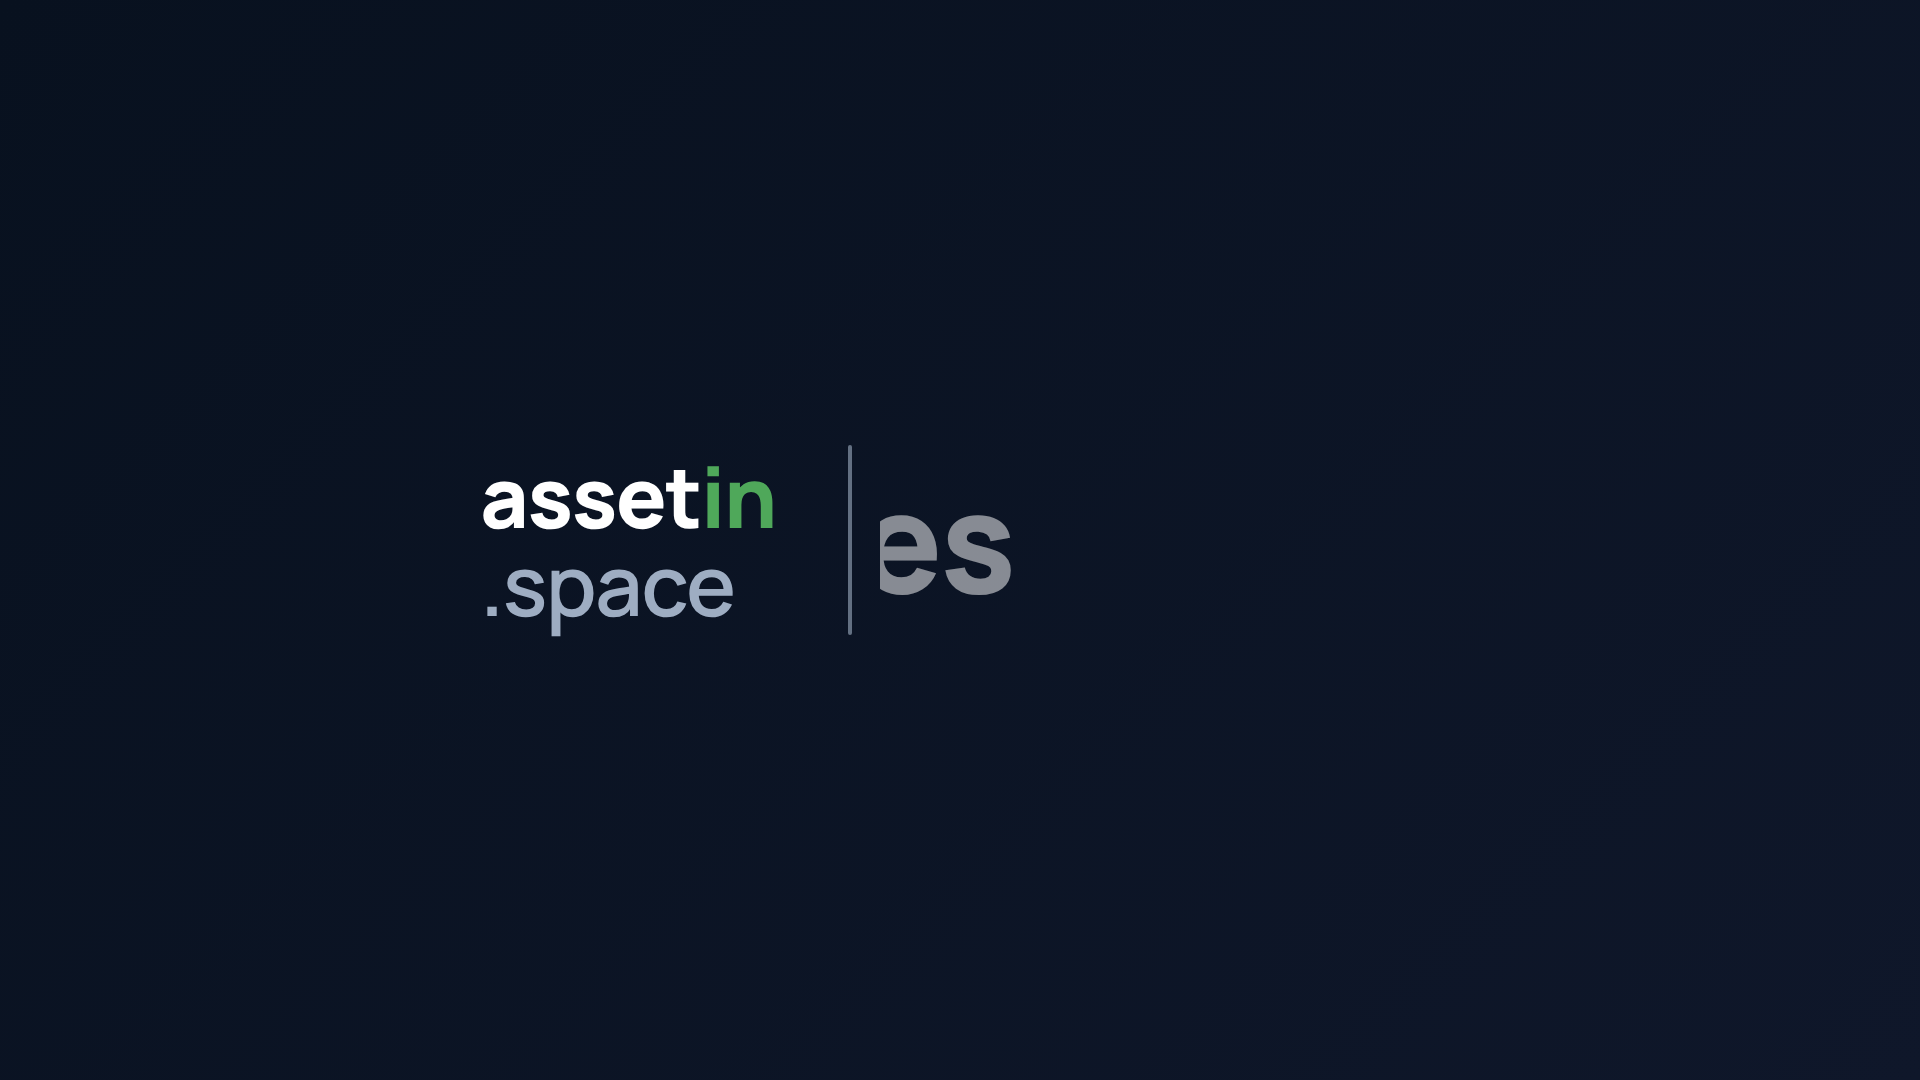
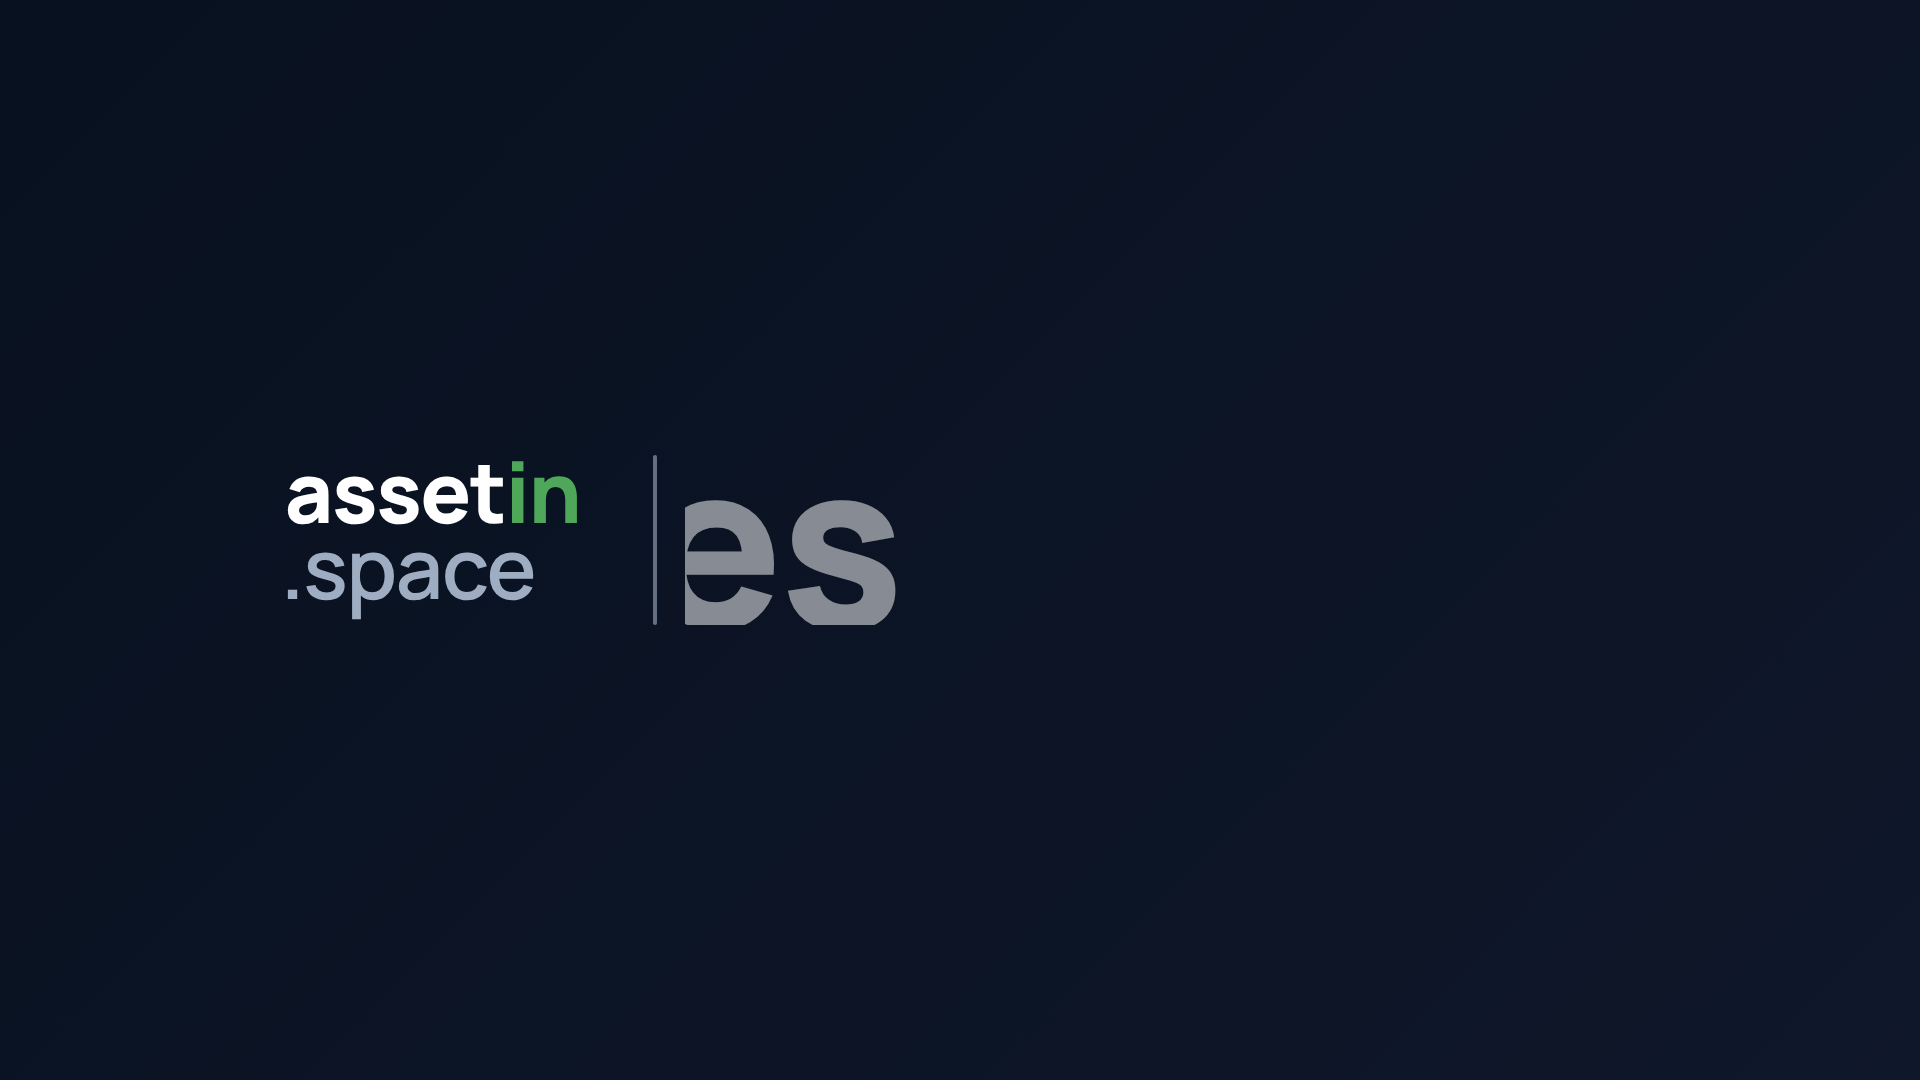
C1 Intro: lockup zarovnaný podľa nameraných glyfov (.space pod assetin, Archives 230 px, stred na jednej osi)
Claude-Session: https://claude.ai/code/session_0174g5XfE49UzAEjnWwaQFuK

Changed region(s): [[0.125, 0.4278, 0.5312, 0.5806]]

diff --git a/video/src/components/Brand.tsx b/video/src/components/Brand.tsx
@@ -12,18 +12,20 @@ export const LOCKUP = {
   stackW: 340, // sirka "assetin" pri 84 px
   gap: 28,
   sepW: 4,
-  sepH: 190,
-  modW: 560, // sirka "Archives" pri 140 px
+  sepH: 170,
+  modW: 951, // sirka "Archives" pri 230 px (namerane, aby bol lockup na strede)
+  modSize: 230,
+  stackSize: 84,
 };
 export const LOCKUP_W = LOCKUP.stackW + LOCKUP.gap + LOCKUP.sepW + LOCKUP.gap + LOCKUP.modW;
 
 export const BrandStack: React.FC<{ domain?: number; style?: React.CSSProperties }> = ({ domain = 1, style }) => (
   <div style={{ display: 'flex', flexDirection: 'column', alignItems: 'flex-start', width: LOCKUP.stackW, ...style }}>
-    <div style={{ fontFamily: FONT.display, fontWeight: 800, fontSize: 84, lineHeight: 1, color: '#fff', letterSpacing: '-0.02em', whiteSpace: 'nowrap' }}>
+    <div style={{ fontFamily: FONT.display, fontWeight: 800, fontSize: LOCKUP.stackSize, lineHeight: 0.9, color: '#fff', letterSpacing: '-0.02em', whiteSpace: 'nowrap' }}>
       asset<span style={{ color: BRAND[400] }}>in</span>
     </div>
     {/* .space: rovnaky typ aj velkost pisma ako assetin, len tenkie a sive */}
-    <div style={{ fontFamily: FONT.display, fontWeight: 500, fontSize: 84, lineHeight: 1, color: NAVY[300], letterSpacing: '-0.02em', marginTop: 4, whiteSpace: 'nowrap', opacity: Math.min(1, domain * 1.5), transform: `translateY(${(1 - domain) * -18}px)` }}>
+    <div style={{ fontFamily: FONT.display, fontWeight: 500, fontSize: LOCKUP.stackSize, lineHeight: 0.9, color: NAVY[300], letterSpacing: '-0.02em', marginTop: 0, marginLeft: -4, whiteSpace: 'nowrap', opacity: Math.min(1, domain * 1.5), transform: `translateY(${(1 - domain) * -18}px)` }}>
       .space
     </div>
   </div>
@@ -36,5 +38,5 @@ export const BrandSep: React.FC<{ t?: number }> = ({ t = 1 }) => (
 );
 
 export const BrandMod: React.FC<{ text?: string; style?: React.CSSProperties }> = ({ text = 'Archives', style }) => (
-  <div style={{ fontFamily: FONT.display, fontWeight: 800, fontSize: 140, lineHeight: 1, color: '#fff', letterSpacing: '-0.02em', whiteSpace: 'nowrap', ...style }}>{text}</div>
+  <div style={{ fontFamily: FONT.display, fontWeight: 800, fontSize: LOCKUP.modSize, lineHeight: 1, color: '#fff', letterSpacing: '-0.02em', whiteSpace: 'nowrap', ...style }}>{text}</div>
 );

diff --git a/video/src/scenes/C1_Intro.tsx b/video/src/scenes/C1_Intro.tsx
@@ -33,13 +33,16 @@ export const C1_Intro: React.FC = () => {
   const sepLeft = stackLeft + LOCKUP.stackW + LOCKUP.gap;
   const modLeft = sepLeft + LOCKUP.sepW + LOCKUP.gap;
   const top = 540 - LOCKUP.sepH / 2;
+  // korekcie podla nameranych glyfov (stred glyfov na y = 540)
+  const STACK_DY = -2;
+  const MOD_DY = -30;
   const scale = 1 + zoom * 0.35;
 
   return (
     <Scene mode="dark">
       <div style={{ position: 'absolute', inset: 0, transform: `scale(${scale})`, transformOrigin: '50% 50%', opacity: 1 - zoom * 0.9, filter: `blur(${zoom * 6}px)` }}>
         {/* stohovany logotyp */}
-        <div style={{ position: 'absolute', left: stackLeft, top: top + (LOCKUP.sepH - 172) / 2, opacity: stackIn, transform: `translateY(${(1 - stackIn) * 24}px)` }}>
+        <div style={{ position: 'absolute', left: stackLeft, top: top + STACK_DY, opacity: stackIn, transform: `translateY(${(1 - stackIn) * 24}px)` }}>
           <BrandStack domain={domain} />
         </div>
         {/* oddelovac */}
@@ -48,7 +51,7 @@ export const C1_Intro: React.FC = () => {
         </div>
         {/* modul Archives: vychadza spoza oddelovaca doprava (clip) */}
         <div style={{ position: 'absolute', left: modLeft, top, width: LOCKUP.modW + 40, height: LOCKUP.sepH, overflow: 'hidden' }}>
-          <BrandMod style={{ position: 'absolute', left: 0, top: (LOCKUP.sepH - 140) / 2, transform: `translateX(${(mod - 1) * (LOCKUP.modW + 40)}px)`, opacity: Math.min(1, mod * 2) }} />
+          <BrandMod style={{ position: 'absolute', left: 0, top: MOD_DY, transform: `translateX(${(mod - 1) * (LOCKUP.modW + 40)}px)`, opacity: Math.min(1, mod * 2) }} />
         </div>
       </div>
       {/* prechod do navy na konci (prvy frame C2 je navy) */}

diff --git a/video/STORYBOARD.md b/video/STORYBOARD.md
@@ -1,4 +1,4 @@
-# Storyboard – Assetin Archives (kolo 12)
+# Storyboard – Assetin Archives (kolo 13)
 
 Stav: ☐ still na schválenie · ☑ still schválený · ▶ animácia hotová · 🎞 finálne MP4
 
@@ -45,7 +45,7 @@ S04-Pokusy (Excel a skener), S10-Nasadenie (U nás / U vás) vo Folder „Option
 - kolo 1: „vyzerá ako prezentácia, priveľa textu, nie je miesto na footage“ → kolo 2.
 - kolo 2: „mierka ikon nesedí, chýba kancelária, texty sa prekrývajú s ikonami, simulácia UI je zbytočná (príde footage), zelené QR, presahy medzi scénami“ → kolo 3 (tento stav).
 - kolo 3 + oprava QR/kancelárie: schválené → Fáza 2 (finálne MP4).
-- kolo 4 až 12 (pripomienky z review stránky, viď FEEDBACK.md): zapracované; nové MP4 na review stránke.
+- kolo 4 až 13 (pripomienky z review stránky, viď FEEDBACK.md): zapracované; nové MP4 na review stránke.
 
 ## Review stránka
 

diff --git a/video/FEEDBACK.md b/video/FEEDBACK.md
@@ -79,3 +79,9 @@
 | Klip | Pripomienka (skrátene) | Riešenie |
 |---|---|---|
 | C1 Intro | `.space` veľkostne nedrží s `assetin`; rovnaký typ aj veľkosť písma, zarovnané na jednu os. | `.space` je Manrope 84 px (rovnako ako `assetin`), váha 500, sivé; stohovaný logotyp, oddeľovač (190 px) aj `Archives` sú vertikálne centrované na jednej osi. |
+
+## Kolo 13 (21. 9. 2026)
+
+| Klip | Pripomienka (skrátene) | Riešenie |
+|---|---|---|
+| C1 Intro | `.space` pôsobí, že „uteká“ – nie je vycentrované/správne uložené. | Zarovnanie podľa nameraných glyfov (pngjs): stoh `assetin`/`.space` tesnejší (line-height 0,9), `.space` ľavou hranou presne pod `a`; stred glyfov stohu, oddeľovača aj `Archives` na y = 540 ± 2 px; `Archives` zväčšené na 230 px (verzálka ≈ výška stohu ako na screenshote); celý lockup vodorovne na strede. |
